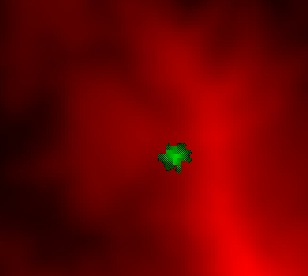
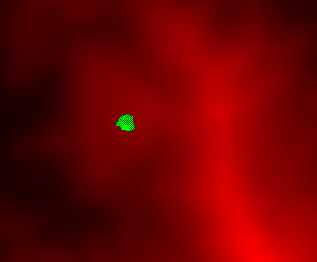
update kernel density estimation
Now, kernel density estimation works fine. Moreover, the reference of overall work process is currently upload in Google Slide. It will take a while for an update.

diff --git a/Assets/OnMapSpawn.cs b/Assets/OnMapSpawn.cs
@@ -120,7 +120,7 @@ public class OnMapSpawn : MonoBehaviour
     int initial_dog_groupsize;
 
     [SerializeField]
-    float homeRangeMultiplier = 1.8f; //default home range multiplier = x1.8
+    float homeRangeMultiplier = 2.0f; //default home range multiplier = x1.8
 
     [SerializeField]
     float hordeMoveRate = 0.4f;
@@ -131,7 +131,7 @@ public class OnMapSpawn : MonoBehaviour
     private bool allowedDogMovement = false;
     private List<EvacPoint> movepoint;
     private float[,] walkingHabits;
-    private float highest_walking_rate = 0.0f;
+    private int highest_walking_rate = 0;
 
     void Start()
     {
@@ -220,14 +220,14 @@ public class OnMapSpawn : MonoBehaviour
         //Press N to start edge detection and home range calculation
         if (Input.GetKeyDown("n"))
         {
-            setDogRadius();
+            kernelDensityEstimation();
             createImage(0 , 3); //Create Edge Map
-            Debug.Log("edge map is created");
+            Debug.Log("edge map (pre-LoCoH) is created");
         }
 
         if (Input.GetKeyDown("m"))
         {
-            kernelDensityEstimation();
+            edgeExpansion();
             maxWalkColor();
             createImage(0 , 4); //create walking habits image
             Debug.Log("walking habits map is created");
@@ -787,14 +787,14 @@ public class OnMapSpawn : MonoBehaviour
         }
         else if (imagetype == 4) //Walking Habit Image
         {
-            if (walkingHabits[lon , lat] != 0.0f)
-            {
-                float colorvalue = 255.0f * (walkingHabits[lon , lat] / highest_walking_rate);
-                return new Color(0.0f , colorvalue , colorvalue);
-            }
-            else if (doggroup[lon , lat] > 0.0f)
+            if (doggroup[lon , lat] > 0.0f)
             {
                 return new Color(0.0f , 255.0f * (doggroup[lon , lat] / initial_dog_groupsize) , 0.0f);
+            }
+            else if (edge[lon , lat] > 0)
+            {
+                float colorvalue = (edge[lon , lat] / (float)highest_walking_rate);
+                return new Color(colorvalue , colorvalue , 0.0f);
             }
             else
             {
@@ -830,8 +830,8 @@ public class OnMapSpawn : MonoBehaviour
         return "/../Assets/MickRendered/createdImage" + route + ".png";
     }
 
-    //Set dog radius from each group
-    private void setDogRadius()
+    //(reference: https://en.wikipedia.org/wiki/Multivariate_kernel_density_estimation)
+    private void kernelDensityEstimation()
     {
         //using edge detection on dog group (image processing)
         // kernel is  { [ -1 -1 -1] , [ -1  8 -1], [ -1 -1 -1] }
@@ -937,7 +937,7 @@ public class OnMapSpawn : MonoBehaviour
                 else
                 {
                     edge[x , y] = 1;
-                    addAverageRadiusOfGroup(x, y); //Combine (not yet concluded) the radius
+                    findNearestGroupNeighbour(x, y, true); //Combine (not yet concluded) the radius
                 }
             }
         }
@@ -945,15 +945,16 @@ public class OnMapSpawn : MonoBehaviour
         //Conclude the average radius of each dog group
         for (int i = 0; i < dogdata.Count; i++)
         {
-            dogradius[i] /= factradius[i];
+            dogradius[i] /= factradius[i]; //Set dog radius from each group
             Debug.Log("Dog Group id: " + i + " has radius " + dogradius[i] + " pixels");
         }
     }
 
-    private void addAverageRadiusOfGroup(int x, int y)
+    private int findNearestGroupNeighbour(int x , int y, bool setRadiusSize = false)
     {
         int selectedgroup = 0;
-        float thisx = abs(dogdata[0].lonid - x), thisy = abs(dogdata[0].latid -y);
+        float thisx = abs(dogdata[0].lonid - x);
+        float thisy = abs(dogdata[0].latid - y);
         float distance = (thisx * thisx) + (thisy * thisy);
         float smallestsize = distance;
 
@@ -971,51 +972,93 @@ public class OnMapSpawn : MonoBehaviour
                 selectedgroup = i;
             }
         }
-        //Euclidean distance
-        dogradius[selectedgroup] += Mathf.Sqrt(smallestsize);
-        factradius[selectedgroup]++;
+
+        if (setRadiusSize)
+        {
+            //Euclidean distance
+            dogradius[selectedgroup] += Mathf.Sqrt(smallestsize);
+            factradius[selectedgroup]++;
+        }
+
+        return selectedgroup;
     }
 
     //(reference: https://en.wikipedia.org/wiki/Multivariate_kernel_density_estimation)
-    private void kernelDensityEstimation()
+    private void edgeExpansion()
     {
-        int thislat, thislon;
-        int mul, curx = 0;
-        for (int i = 0; i < dogdata.Count; i++)
-        {
-            thislat = dogdata[i].latid;
-            thislon = dogdata[i].lonid;
-            mul = (int)(dogradius[i] * homeRangeMultiplier) + 1;
+        int radius;
+        int[,] tempedge = new int[xgridsize , ygridsize];
 
-            //Draw from bottom to center
-            for (int y = (thislat - mul) + 1; y < thislat; y+=2)
+        for (int y = 0; y < ygridsize; y++)
+        {
+            for (int x = 0; x < xgridsize; x++)
             {
-                walkingBehaviour(thislat , thislon , y , thislon - curx , mul);
-                walkingBehaviour(thislat , thislon , y , thislon + curx , mul);
-                walkingBehaviour(y , thislon - curx , thislat , thislon , mul);
-                walkingBehaviour(y , thislon + curx , thislat , thislon , mul);
-                walkingHabits[thislon - curx , y] = 0.0f;
-                walkingHabits[thislon + curx , y] = 0.0f;
-                curx+=2;
+                tempedge[x , y] = edge[x , y];
             }
-            curx = 0;
-            
-            //Draw from top to center
-            for (int y = (thislat + mul) - 1; y > thislat; y-=2)
+        }
+
+        for (int y = 0; y < ygridsize; y++)
+        {
+            for (int x = 0; x < xgridsize; x++)
             {
-                walkingBehaviour(thislat , thislon , y , thislon - curx , mul);
-                walkingBehaviour(thislat , thislon , y , thislon + curx , mul);
-                walkingBehaviour(y , thislon - curx , thislat , thislon , mul);
-                walkingBehaviour(y , thislon + curx , thislat , thislon , mul);
-                walkingHabits[thislon - curx , y] = 0.0f;
-                walkingHabits[thislon + curx , y] = 0.0f;
-                curx+=2;
+                if (edge[x , y] > 0)
+                {
+                    radius = (int)dogradius[findNearestGroupNeighbour(x , y)];
+                    int topy = inSize(y + radius + 1);
+                    int boty = inSize(y - radius - 1);
+
+                    int leftx, rightx, curx = 0;
+
+                    for (int i = boty; i < y; i++)
+                    {
+                        leftx = inSize(x - curx, false);
+                        rightx = inSize(x + curx + 1, false);
+                        for (int j = leftx; j < rightx; j++)
+                        {
+                            tempedge[j , i]++;
+                        }
+                        curx++;
+                    }
+                    curx = 0;
+
+                    for (int i = topy; i >= y; i--)
+                    {
+                        leftx = inSize(x - curx , false);
+                        rightx = inSize(x + curx + 1 , false);
+                        for (int j = leftx; j < rightx; j++)
+                        {
+                            tempedge[j , i]++;
+                        }
+                        curx++;
+                    }
+                }
             }
-            curx = 0;
+        }
+
+        for (int y = 0; y < ygridsize; y++)
+        {
+            for (int x = 0; x < xgridsize; x++)
+            {
+                edge[x , y] = tempedge[x , y];
+            }
         }
     }
 
-    private void walkingBehaviour(int d_lat, int d_lon, int t_lat, int t_lon, int mul)
+    private void maxWalkColor()
+    {
+        for (int y = 0; y < ygridsize; y++)
+        {
+            for (int x = 0; x < xgridsize; x++)
+            {
+                if (edge[x , y] > highest_walking_rate)
+                {
+                    highest_walking_rate = edge[x , y];
+                }
+            }
+        }
+    }
+
+    private void walkingBehaviour(int d_lat , int d_lon , int t_lat , int t_lon , int mul)
     {
         int y_dir = 1, x_dir = 1;
         float cursize = initial_dog_groupsize;
@@ -1023,24 +1066,8 @@ public class OnMapSpawn : MonoBehaviour
 
         walkingHabits[d_lon , d_lat] += 1.0f;
 
-        if (t_lat >= ygridsize)
-        {
-            t_lat = ygridsize - 1;
-        }
-        else if (t_lat < 0)
-        {
-            t_lat = 0;
-        }
-
-        if (t_lon >= xgridsize)
-        {
-            t_lon = xgridsize - 1;
-        }
-        else if (t_lon < 0)
-        {
-            t_lon = 0;
-        }
-        
+        t_lat = inSize(t_lat);
+        t_lon = inSize(t_lon , false);
 
         if (d_lat > t_lat)
         {
@@ -1051,8 +1078,8 @@ public class OnMapSpawn : MonoBehaviour
             x_dir = -1;
         }
 
-        distance = ((d_lat - t_lat) * (d_lat - t_lat)) + ((d_lon - t_lon)* (d_lon - t_lon));
-        float walking_criteria = (initial_dog_groupsize  / Mathf.Sqrt(distance)) / mul;
+        distance = ((d_lat - t_lat) * (d_lat - t_lat)) + ((d_lon - t_lon) * (d_lon - t_lon));
+        float walking_criteria = (initial_dog_groupsize / Mathf.Sqrt(distance)) / mul;
 
         while (d_lat != t_lat && d_lon != t_lon)
         {
@@ -1114,20 +1141,6 @@ public class OnMapSpawn : MonoBehaviour
                 }
             }
             walkingHabits[d_lon , d_lat] += 1.0f;
-        }
-    }
-
-    private void maxWalkColor()
-    {
-        for (int y = 0; y < ygridsize; y++)
-        {
-            for (int x = 0; x < xgridsize; x++)
-            {
-                if (walkingHabits[x,y] > highest_walking_rate)
-                {
-                    highest_walking_rate = walkingHabits[x , y];
-                }
-            }
         }
     }
 }
